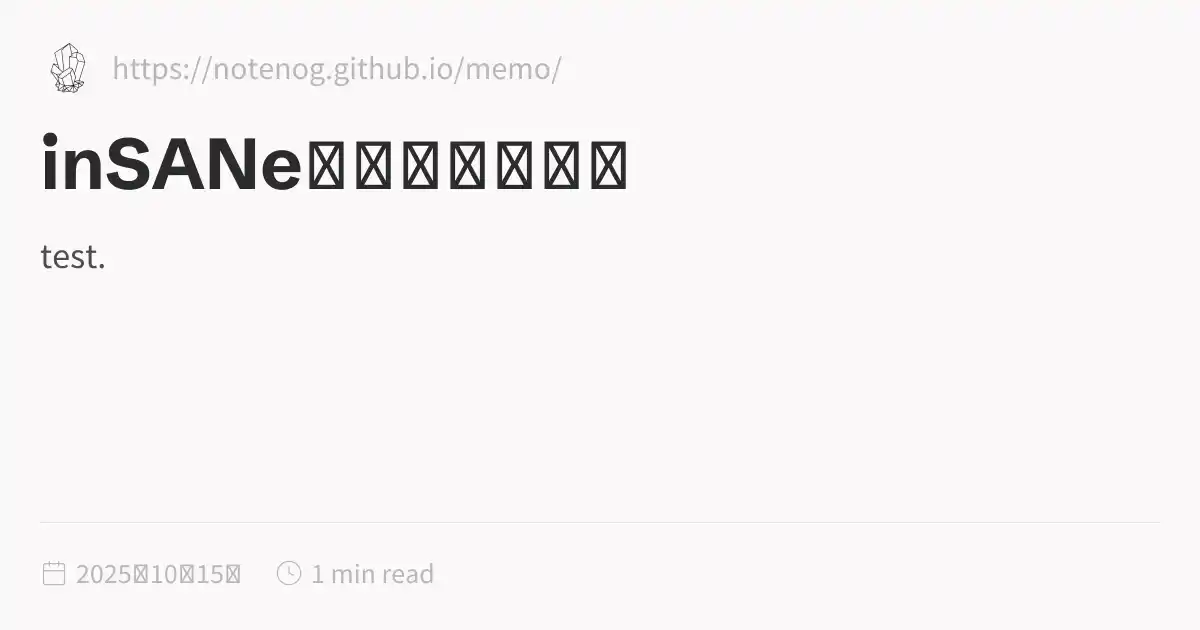
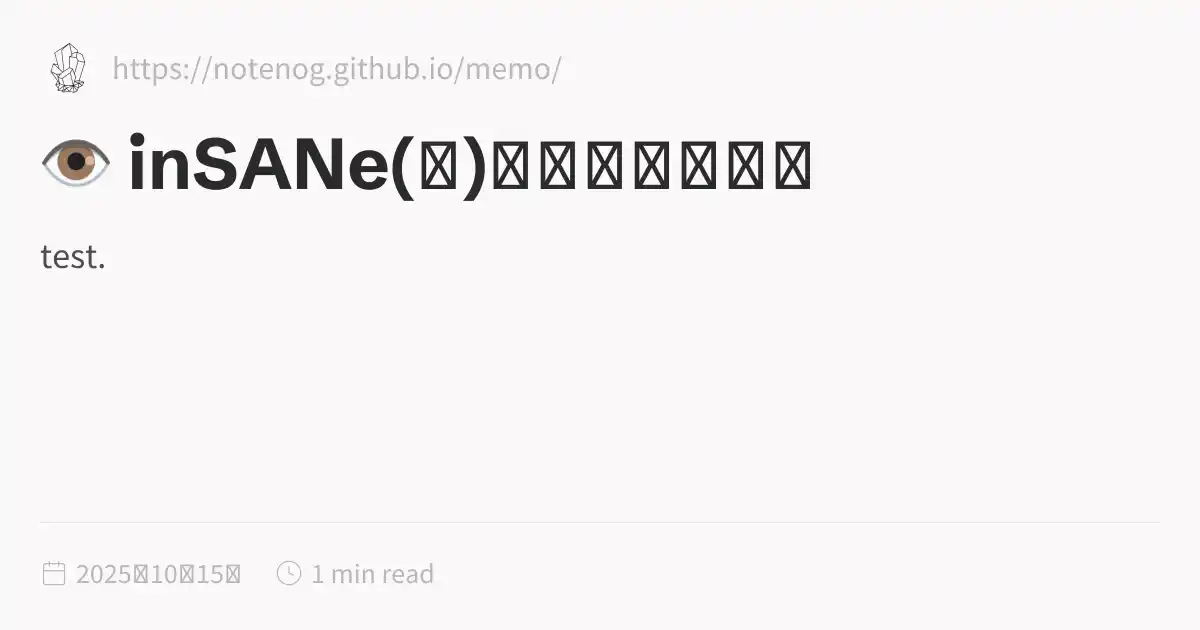
fix: Final push of clean assets with all content emitters disabled

Changed region(s): [[0.0308, 0.2111, 0.6783, 0.3317]]

diff --git a/docs/index.html b/docs/index.html
@@ -1,5 +1,5 @@
 <!DOCTYPE html>
-<html lang="ja" dir="ltr"><head><title>index</title><meta charset="utf-8"/><link rel="preconnect" href="https://fonts.googleapis.com"/><link rel="preconnect" href="https://fonts.gstatic.com"/><link rel="stylesheet" href="https://fonts.googleapis.com/css2?family=Schibsted Grotesk:wght@400;700&amp;family=Source Sans Pro:ital,wght@0,400;0,600;1,400;1,600&amp;family=IBM Plex Mono:wght@400;600&amp;display=swap"/><link rel="preconnect" href="https://cdnjs.cloudflare.com" crossorigin="anonymous"/><meta name="viewport" content="width=device-width, initial-scale=1.0"/><meta name="og:site_name" content="MEMO"/><meta property="og:title" content="index"/><meta property="og:type" content="website"/><meta name="twitter:card" content="summary_large_image"/><meta name="twitter:title" content="index"/><meta name="twitter:description" content="セッション前について 【🔧 使用ツール】 Tekey()を使用します 【立ち絵について】 用意される場合は、縦450pxを基準に、**「股下～膝上」**程度にカットを推奨します 横幅は自由です セッション当日について 【💁♀ 立ち絵位置】 特に指定がなければ 【🎨 文字色】 通常、GMは赤・灰・黒系を使用します それ以外の色でお願い致します 【📸 スクリーンショットの公開】 ネタバレの配慮をして頂ければX(Twitter)等にあげて貰って大丈夫です 厳密には「NPC」「マップ」「エネミー」等は映さないように重々注意して下さい ."/><meta property="og:description" content="セッション前について 【🔧 使用ツール】 Tekey()を使用します 【立ち絵について】 用意される場合は、縦450pxを基準に、**「股下～膝上」**程度にカットを推奨します 横幅は自由です セッション当日について 【💁♀ 立ち絵位置】 特に指定がなければ 【🎨 文字色】 通常、GMは赤・灰・黒系を使用します それ以外の色でお願い致します 【📸 スクリーンショットの公開】 ネタバレの配慮をして頂ければX(Twitter)等にあげて貰って大丈夫です 厳密には「NPC」「マップ」「エネミー」等は映さないように重々注意して下さい ."/><meta property="og:image:alt" content="セッション前について 【🔧 使用ツール】 Tekey()を使用します 【立ち絵について】 用意される場合は、縦450pxを基準に、**「股下～膝上」**程度にカットを推奨します 横幅は自由です セッション当日について 【💁♀ 立ち絵位置】 特に指定がなければ 【🎨 文字色】 通常、GMは赤・灰・黒系を使用します それ以外の色でお願い致します 【📸 スクリーンショットの公開】 ネタバレの配慮をして頂ければX(Twitter)等にあげて貰って大丈夫です 厳密には「NPC」「マップ」「エネミー」等は映さないように重々注意して下さい ."/><meta property="twitter:domain" content="https://notenog.github.io/memo/"/><meta property="og:url" content="https://https//notenog.github.io/memo/index"/><meta property="twitter:url" content="https://https//notenog.github.io/memo/index"/><link rel="icon" href="./static/icon.png"/><meta name="description" content="セッション前について 【🔧 使用ツール】 Tekey()を使用します 【立ち絵について】 用意される場合は、縦450pxを基準に、**「股下～膝上」**程度にカットを推奨します 横幅は自由です セッション当日について 【💁♀ 立ち絵位置】 特に指定がなければ 【🎨 文字色】 通常、GMは赤・灰・黒系を使用します それ以外の色でお願い致します 【📸 スクリーンショットの公開】 ネタバレの配慮をして頂ければX(Twitter)等にあげて貰って大丈夫です 厳密には「NPC」「マップ」「エネミー」等は映さないように重々注意して下さい ."/><meta name="generator" content="Quartz"/><link href="./index.css" rel="stylesheet" type="text/css" spa-preserve/><style>.expand-button {
+<html lang="ja" dir="ltr"><head><title>index</title><meta charset="utf-8"/><link rel="preconnect" href="https://fonts.googleapis.com"/><link rel="preconnect" href="https://fonts.gstatic.com"/><link rel="stylesheet" href="https://fonts.googleapis.com/css2?family=Schibsted Grotesk:wght@400;700&amp;family=Source Sans Pro:ital,wght@0,400;0,600;1,400;1,600&amp;family=IBM Plex Mono:wght@400;600&amp;display=swap"/><link rel="preconnect" href="https://cdnjs.cloudflare.com" crossorigin="anonymous"/><meta name="viewport" content="width=device-width, initial-scale=1.0"/><meta name="og:site_name" content="MEMO"/><meta property="og:title" content="index"/><meta property="og:type" content="website"/><meta name="twitter:card" content="summary_large_image"/><meta name="twitter:title" content="index"/><meta name="twitter:description" content="◯ セッション前について 【🔧 使用ツール】 Tekey()を使用します 【立ち絵について】 用意される場合は、縦450pxを基準に、**「股下～膝上」**程度にカットを推奨します 横幅は自由です ◯ セッション当日について 【💁♀ 立ち絵位置】 特に指定がなければ 【🎨 文字色】 通常、GMは赤・灰・黒系を使用します それ以外の色でお願い致します 【📸 スクリーンショットの公開】 ネタバレの配慮をして頂ければX(Twitter)等にあげて貰って大丈夫です 厳密には「NPC」「マップ」「エネミー」等は映さないように重々注意して下さい ."/><meta property="og:description" content="◯ セッション前について 【🔧 使用ツール】 Tekey()を使用します 【立ち絵について】 用意される場合は、縦450pxを基準に、**「股下～膝上」**程度にカットを推奨します 横幅は自由です ◯ セッション当日について 【💁♀ 立ち絵位置】 特に指定がなければ 【🎨 文字色】 通常、GMは赤・灰・黒系を使用します それ以外の色でお願い致します 【📸 スクリーンショットの公開】 ネタバレの配慮をして頂ければX(Twitter)等にあげて貰って大丈夫です 厳密には「NPC」「マップ」「エネミー」等は映さないように重々注意して下さい ."/><meta property="og:image:alt" content="◯ セッション前について 【🔧 使用ツール】 Tekey()を使用します 【立ち絵について】 用意される場合は、縦450pxを基準に、**「股下～膝上」**程度にカットを推奨します 横幅は自由です ◯ セッション当日について 【💁♀ 立ち絵位置】 特に指定がなければ 【🎨 文字色】 通常、GMは赤・灰・黒系を使用します それ以外の色でお願い致します 【📸 スクリーンショットの公開】 ネタバレの配慮をして頂ければX(Twitter)等にあげて貰って大丈夫です 厳密には「NPC」「マップ」「エネミー」等は映さないように重々注意して下さい ."/><meta property="twitter:domain" content="https://notenog.github.io/memo/"/><meta property="og:url" content="https://https//notenog.github.io/memo/index"/><meta property="twitter:url" content="https://https//notenog.github.io/memo/index"/><link rel="icon" href="./static/icon.png"/><meta name="description" content="◯ セッション前について 【🔧 使用ツール】 Tekey()を使用します 【立ち絵について】 用意される場合は、縦450pxを基準に、**「股下～膝上」**程度にカットを推奨します 横幅は自由です ◯ セッション当日について 【💁♀ 立ち絵位置】 特に指定がなければ 【🎨 文字色】 通常、GMは赤・灰・黒系を使用します それ以外の色でお願い致します 【📸 スクリーンショットの公開】 ネタバレの配慮をして頂ければX(Twitter)等にあげて貰って大丈夫です 厳密には「NPC」「マップ」「エネミー」等は映さないように重々注意して下さい ."/><meta name="generator" content="Quartz"/><link href="./index.css" rel="stylesheet" type="text/css" spa-preserve/><style>.expand-button {
   position: absolute;
   display: flex;
   float: right;
@@ -116,7 +116,7 @@ pre:hover > .expand-button {
   padding: 0 12px;
   font-size: 14px;
 }
[2 lines of base64/hex data omitted]
 <h2 id="-使用ツール">【🔧 使用ツール】<a role="anchor" aria-hidden="true" tabindex="-1" data-no-popover="true" href="#-使用ツール" class="internal"><svg width="18" height="18" viewBox="0 0 24 24" fill="none" stroke="currentColor" stroke-width="2" stroke-linecap="round" stroke-linejoin="round"><path d="M10 13a5 5 0 0 0 7.54.54l3-3a5 5 0 0 0-7.07-7.07l-1.72 1.71"></path><path d="M14 11a5 5 0 0 0-7.54-.54l-3 3a5 5 0 0 0 7.07 7.07l1.71-1.71"></path></svg></a></h2>
 <ul>
 <li>Tekey()を使用します</li>
@@ -126,7 +126,7 @@ pre:hover > .expand-button {
 <li>用意される場合は、<strong>縦450px</strong>を基準に、**「股下～膝上」**程度にカットを推奨します</li>
 <li>横幅は自由です</li>
 </ul>
-<h1 id="セッション当日について">セッション当日について<a role="anchor" aria-hidden="true" tabindex="-1" data-no-popover="true" href="#セッション当日について" class="internal"><svg width="18" height="18" viewBox="0 0 24 24" fill="none" stroke="currentColor" stroke-width="2" stroke-linecap="round" stroke-linejoin="round"><path d="M10 13a5 5 0 0 0 7.54.54l3-3a5 5 0 0 0-7.07-7.07l-1.72 1.71"></path><path d="M14 11a5 5 0 0 0-7.54-.54l-3 3a5 5 0 0 0 7.07 7.07l1.71-1.71"></path></svg></a></h1>
+<h1 id="-セッション当日について">◯ セッション当日について<a role="anchor" aria-hidden="true" tabindex="-1" data-no-popover="true" href="#-セッション当日について" class="internal"><svg width="18" height="18" viewBox="0 0 24 24" fill="none" stroke="currentColor" stroke-width="2" stroke-linecap="round" stroke-linejoin="round"><path d="M10 13a5 5 0 0 0 7.54.54l3-3a5 5 0 0 0-7.07-7.07l-1.72 1.71"></path><path d="M14 11a5 5 0 0 0-7.54-.54l-3 3a5 5 0 0 0 7.07 7.07l1.71-1.71"></path></svg></a></h1>
 <h2 id="-立ち絵位置">【💁♀ 立ち絵位置】<a role="anchor" aria-hidden="true" tabindex="-1" data-no-popover="true" href="#-立ち絵位置" class="internal"><svg width="18" height="18" viewBox="0 0 24 24" fill="none" stroke="currentColor" stroke-width="2" stroke-linecap="round" stroke-linejoin="round"><path d="M10 13a5 5 0 0 0 7.54.54l3-3a5 5 0 0 0-7.07-7.07l-1.72 1.71"></path><path d="M14 11a5 5 0 0 0-7.54-.54l-3 3a5 5 0 0 0 7.07 7.07l1.71-1.71"></path></svg></a></h2>
 <ul>
 <li>特に指定がなければ</li>
@@ -140,6 +140,6 @@ pre:hover > .expand-button {
 <ul>
 <li><strong>ネタバレの配慮</strong>をして頂ければX(Twitter)等にあげて貰って大丈夫です</li>
 <li>厳密には「NPC」「マップ」「エネミー」等は映さないように重々注意して下さい</li>
-</ul></article><hr/><div class="page-footer"></div></div><div class="right sidebar"><div class="search"><button class="search-button"><svg role="img" xmlns="http://www.w3.org/2000/svg" viewBox="0 0 19.9 19.7"><title>Search</title><g class="search-path" fill="none"><path stroke-linecap="square" d="M18.5 18.3l-5.4-5.4"></path><circle cx="8" cy="8" r="7"></circle></g></svg><p>Search</p></button><div class="search-container"><div class="search-space"><input autocomplete="off" class="search-bar" name="search" type="text" aria-label="検索ワードを入力" placeholder="検索ワードを入力"/><div class="search-layout" data-preview="true"></div></div></div></div><div class="toc desktop-only"><button type="button" class="toc-header" aria-controls="toc-0" aria-expanded="true"><h3>📄 Contents</h3><svg xmlns="http://www.w3.org/2000/svg" width="24" height="24" viewBox="0 0 24 24" fill="none" stroke="currentColor" stroke-width="2" stroke-linecap="round" stroke-linejoin="round" class="fold"><polyline points="6 9 12 15 18 9"></polyline></svg></button><ul id="list-1" class="toc-content overflow"><li class="depth-0"><a href="#セッション前について" data-for="セッション前について">セッション前について</a></li><li class="depth-1"><a href="#-使用ツール" data-for="-使用ツール">【🔧 使用ツール】</a></li><li class="depth-1"><a href="#立ち絵について" data-for="立ち絵について">【立ち絵について】</a></li><li class="depth-0"><a href="#セッション当日について" data-for="セッション当日について">セッション当日について</a></li><li class="depth-1"><a href="#-立ち絵位置" data-for="-立ち絵位置">【💁♀ 立ち絵位置】</a></li><li class="depth-1"><a href="#-文字色" data-for="-文字色">【🎨 文字色】</a></li><li class="depth-1"><a href="#-スクリーンショットの公開" data-for="-スクリーンショットの公開">【📸 スクリーンショットの公開】</a></li><li class="overflow-end"></li></ul></div></div><footer class><p>Created with <a href="https://quartz.jzhao.xyz/">Quartz v4.5.2</a> © 2025</p><ul><li><a href="https://github.com/jackyzha0/quartz">GitHub</a></li></ul></footer></div></div></body><script type="application/javascript">function n(){let t=this.parentElement;t.classList.toggle("is-collapsed");let e=t.getElementsByClassName("callout-content")[0];if(!e)return;let l=t.classList.contains("is-collapsed");e.style.gridTemplateRows=l?"0fr":"1fr"}function c(){let t=document.getElementsByClassName("callout is-collapsible");for(let e of t){let l=e.getElementsByClassName("callout-title")[0],s=e.getElementsByClassName("callout-content")[0];if(!l||!s)continue;l.addEventListener("click",n),window.addCleanup(()=>l.removeEventListener("click",n));let o=e.classList.contains("is-collapsed");s.style.gridTemplateRows=o?"0fr":"1fr"}}document.addEventListener("nav",c);
+</ul></article><hr/><div class="page-footer"></div></div><div class="right sidebar"><div class="search"><button class="search-button"><svg role="img" xmlns="http://www.w3.org/2000/svg" viewBox="0 0 19.9 19.7"><title>Search</title><g class="search-path" fill="none"><path stroke-linecap="square" d="M18.5 18.3l-5.4-5.4"></path><circle cx="8" cy="8" r="7"></circle></g></svg><p>Search</p></button><div class="search-container"><div class="search-space"><input autocomplete="off" class="search-bar" name="search" type="text" aria-label="検索ワードを入力" placeholder="検索ワードを入力"/><div class="search-layout" data-preview="true"></div></div></div></div><div class="toc desktop-only"><button type="button" class="toc-header" aria-controls="toc-0" aria-expanded="true"><h3>📄 Contents</h3><svg xmlns="http://www.w3.org/2000/svg" width="24" height="24" viewBox="0 0 24 24" fill="none" stroke="currentColor" stroke-width="2" stroke-linecap="round" stroke-linejoin="round" class="fold"><polyline points="6 9 12 15 18 9"></polyline></svg></button><ul id="list-1" class="toc-content overflow"><li class="depth-0"><a href="#-セッション前について" data-for="-セッション前について">◯ セッション前について</a></li><li class="depth-1"><a href="#-使用ツール" data-for="-使用ツール">【🔧 使用ツール】</a></li><li class="depth-1"><a href="#立ち絵について" data-for="立ち絵について">【立ち絵について】</a></li><li class="depth-0"><a href="#-セッション当日について" data-for="-セッション当日について">◯ セッション当日について</a></li><li class="depth-1"><a href="#-立ち絵位置" data-for="-立ち絵位置">【💁♀ 立ち絵位置】</a></li><li class="depth-1"><a href="#-文字色" data-for="-文字色">【🎨 文字色】</a></li><li class="depth-1"><a href="#-スクリーンショットの公開" data-for="-スクリーンショットの公開">【📸 スクリーンショットの公開】</a></li><li class="overflow-end"></li></ul></div></div><footer class><p>Created with <a href="https://quartz.jzhao.xyz/">Quartz v4.5.2</a> © 2025</p><ul><li><a href="https://github.com/jackyzha0/quartz">GitHub</a></li></ul></footer></div></div></body><script type="application/javascript">function n(){let t=this.parentElement;t.classList.toggle("is-collapsed");let e=t.getElementsByClassName("callout-content")[0];if(!e)return;let l=t.classList.contains("is-collapsed");e.style.gridTemplateRows=l?"0fr":"1fr"}function c(){let t=document.getElementsByClassName("callout is-collapsible");for(let e of t){let l=e.getElementsByClassName("callout-title")[0],s=e.getElementsByClassName("callout-content")[0];if(!l||!s)continue;l.addEventListener("click",n),window.addCleanup(()=>l.removeEventListener("click",n));let o=e.classList.contains("is-collapsed");s.style.gridTemplateRows=o?"0fr":"1fr"}}document.addEventListener("nav",c);
 </script><script type="module">function f(i,e){if(!i)return;function r(o){o.target===this&&(o.preventDefault(),o.stopPropagation(),e())}function t(o){o.key.startsWith("Esc")&&(o.preventDefault(),e())}i?.addEventListener("click",r),window.addCleanup(()=>i?.removeEventListener("click",r)),document.addEventListener("keydown",t),window.addCleanup(()=>document.removeEventListener("keydown",t))}function y(i){for(;i.firstChild;)i.removeChild(i.firstChild)}var h=class{constructor(e,r){this.container=e;this.content=r;this.setupEventListeners(),this.setupNavigationControls(),this.resetTransform()}isDragging=!1;startPan={x:0,y:0};currentPan={x:0,y:0};scale=1;MIN_SCALE=.5;MAX_SCALE=3;cleanups=[];setupEventListeners(){let e=this.onMouseDown.bind(this),r=this.onMouseMove.bind(this),t=this.onMouseUp.bind(this),o=this.resetTransform.bind(this);this.container.addEventListener("mousedown",e),document.addEventListener("mousemove",r),document.addEventListener("mouseup",t),window.addEventListener("resize",o),this.cleanups.push(()=>this.container.removeEventListener("mousedown",e),()=>document.removeEventListener("mousemove",r),()=>document.removeEventListener("mouseup",t),()=>window.removeEventListener("resize",o))}cleanup(){for(let e of this.cleanups)e()}setupNavigationControls(){let e=document.createElement("div");e.className="mermaid-controls";let r=this.createButton("+",()=>this.zoom(.1)),t=this.createButton("-",()=>this.zoom(-.1)),o=this.createButton("Reset",()=>this.resetTransform());e.appendChild(t),e.appendChild(o),e.appendChild(r),this.container.appendChild(e)}createButton(e,r){let t=document.createElement("button");return t.textContent=e,t.className="mermaid-control-button",t.addEventListener("click",r),window.addCleanup(()=>t.removeEventListener("click",r)),t}onMouseDown(e){e.button===0&&(this.isDragging=!0,this.startPan={x:e.clientX-this.currentPan.x,y:e.clientY-this.currentPan.y},this.container.style.cursor="grabbing")}onMouseMove(e){this.isDragging&&(e.preventDefault(),this.currentPan={x:e.clientX-this.startPan.x,y:e.clientY-this.startPan.y},this.updateTransform())}onMouseUp(){this.isDragging=!1,this.container.style.cursor="grab"}zoom(e){let r=Math.min(Math.max(this.scale+e,this.MIN_SCALE),this.MAX_SCALE),t=this.content.getBoundingClientRect(),o=t.width/2,n=t.height/2,c=r-this.scale;this.currentPan.x-=o*c,this.currentPan.y-=n*c,this.scale=r,this.updateTransform()}updateTransform(){this.content.style.transform=`translate(${this.currentPan.x}px, ${this.currentPan.y}px) scale(${this.scale})`}resetTransform(){this.scale=1;let e=this.content.querySelector("svg");this.currentPan={x:e.getBoundingClientRect().width/2,y:e.getBoundingClientRect().height/2},this.updateTransform()}},C=["--secondary","--tertiary","--gray","--light","--lightgray","--highlight","--dark","--darkgray","--codeFont"],E;document.addEventListener("nav",async()=>{let e=document.querySelector(".center").querySelectorAll("code.mermaid");if(e.length===0)return;E||=await import("https://cdnjs.cloudflare.com/ajax/libs/mermaid/11.4.0/mermaid.esm.min.mjs");let r=E.default,t=new WeakMap;for(let n of e)t.set(n,n.innerText);async function o(){for(let s of e){s.removeAttribute("data-processed");let a=t.get(s);a&&(s.innerHTML=a)}let n=C.reduce((s,a)=>(s[a]=window.getComputedStyle(document.documentElement).getPropertyValue(a),s),{}),c=document.documentElement.getAttribute("saved-theme")==="dark";r.initialize({startOnLoad:!1,securityLevel:"loose",theme:c?"dark":"base",themeVariables:{fontFamily:n["--codeFont"],primaryColor:n["--light"],primaryTextColor:n["--darkgray"],primaryBorderColor:n["--tertiary"],lineColor:n["--darkgray"],secondaryColor:n["--secondary"],tertiaryColor:n["--tertiary"],clusterBkg:n["--light"],edgeLabelBackground:n["--highlight"]}}),await r.run({nodes:e})}await o(),document.addEventListener("themechange",o),window.addCleanup(()=>document.removeEventListener("themechange",o));for(let n=0;n<e.length;n++){let v=function(){let g=l.querySelector("#mermaid-space"),m=l.querySelector(".mermaid-content");if(!m)return;y(m);let w=c.querySelector("svg").cloneNode(!0);m.appendChild(w),l.classList.add("active"),g.style.cursor="grab",u=new h(g,m)},M=function(){l.classList.remove("active"),u?.cleanup(),u=null},c=e[n],s=c.parentElement,a=s.querySelector(".clipboard-button"),d=s.querySelector(".expand-button"),p=window.getComputedStyle(a),L=a.offsetWidth+parseFloat(p.marginLeft||"0")+parseFloat(p.marginRight||"0");d.style.right=`calc(${L}px + 0.3rem)`,s.prepend(d);let l=s.querySelector("#mermaid-container");if(!l)return;let u=null;d.addEventListener("click",v),f(l,M),window.addCleanup(()=>{u?.cleanup(),d.removeEventListener("click",v)})}});
 </script><script src="https://cdn.jsdelivr.net/npm/katex@0.16.11/dist/contrib/copy-tex.min.js" type="application/javascript"></script><script src="./postscript.js" type="module"></script></html>

diff --git a/docs/inSANe_new.html b/docs/inSANe_new.html
@@ -1,5 +1,5 @@
 <!DOCTYPE html>
-<html lang="ja" dir="ltr"><head><title>inSANe／ハウスルール</title><meta charset="utf-8"/><link rel="preconnect" href="https://fonts.googleapis.com"/><link rel="preconnect" href="https://fonts.gstatic.com"/><link rel="stylesheet" href="https://fonts.googleapis.com/css2?family=Schibsted Grotesk:wght@400;700&amp;family=Source Sans Pro:ital,wght@0,400;0,600;1,400;1,600&amp;family=IBM Plex Mono:wght@400;600&amp;display=swap"/><link rel="preconnect" href="https://cdnjs.cloudflare.com" crossorigin="anonymous"/><meta name="viewport" content="width=device-width, initial-scale=1.0"/><meta name="og:site_name" content="MEMO"/><meta property="og:title" content="inSANe／ハウスルール"/><meta property="og:type" content="website"/><meta name="twitter:card" content="summary_large_image"/><meta name="twitter:title" content="inSANe／ハウスルール"/><meta name="twitter:description" content="test."/><meta property="og:description" content="test."/><meta property="og:image:alt" content="test."/><meta property="twitter:domain" content="https://notenog.github.io/memo/"/><meta property="og:url" content="https://https//notenog.github.io/memo/inSANe_new"/><meta property="twitter:url" content="https://https//notenog.github.io/memo/inSANe_new"/><link rel="icon" href="./static/icon.png"/><meta name="description" content="test."/><meta name="generator" content="Quartz"/><link href="./index.css" rel="stylesheet" type="text/css" spa-preserve/><style>.expand-button {
+<html lang="ja" dir="ltr"><head><title>👁 inSANe(新)／ハウスルール</title><meta charset="utf-8"/><link rel="preconnect" href="https://fonts.googleapis.com"/><link rel="preconnect" href="https://fonts.gstatic.com"/><link rel="stylesheet" href="https://fonts.googleapis.com/css2?family=Schibsted Grotesk:wght@400;700&amp;family=Source Sans Pro:ital,wght@0,400;0,600;1,400;1,600&amp;family=IBM Plex Mono:wght@400;600&amp;display=swap"/><link rel="preconnect" href="https://cdnjs.cloudflare.com" crossorigin="anonymous"/><meta name="viewport" content="width=device-width, initial-scale=1.0"/><meta name="og:site_name" content="MEMO"/><meta property="og:title" content="👁 inSANe(新)／ハウスルール"/><meta property="og:type" content="website"/><meta name="twitter:card" content="summary_large_image"/><meta name="twitter:title" content="👁 inSANe(新)／ハウスルール"/><meta name="twitter:description" content="test."/><meta property="og:description" content="test."/><meta property="og:image:alt" content="test."/><meta property="twitter:domain" content="https://notenog.github.io/memo/"/><meta property="og:url" content="https://https//notenog.github.io/memo/inSANe_new"/><meta property="twitter:url" content="https://https//notenog.github.io/memo/inSANe_new"/><link rel="icon" href="./static/icon.png"/><meta name="description" content="test."/><meta name="generator" content="Quartz"/><link href="./index.css" rel="stylesheet" type="text/css" spa-preserve/><style>.expand-button {
   position: absolute;
   display: flex;
   float: right;
@@ -116,6 +116,6 @@ pre:hover > .expand-button {
   padding: 0 12px;
   font-size: 14px;
 }
[2 lines of base64/hex data omitted]
 </script><script type="module">function f(i,e){if(!i)return;function r(o){o.target===this&&(o.preventDefault(),o.stopPropagation(),e())}function t(o){o.key.startsWith("Esc")&&(o.preventDefault(),e())}i?.addEventListener("click",r),window.addCleanup(()=>i?.removeEventListener("click",r)),document.addEventListener("keydown",t),window.addCleanup(()=>document.removeEventListener("keydown",t))}function y(i){for(;i.firstChild;)i.removeChild(i.firstChild)}var h=class{constructor(e,r){this.container=e;this.content=r;this.setupEventListeners(),this.setupNavigationControls(),this.resetTransform()}isDragging=!1;startPan={x:0,y:0};currentPan={x:0,y:0};scale=1;MIN_SCALE=.5;MAX_SCALE=3;cleanups=[];setupEventListeners(){let e=this.onMouseDown.bind(this),r=this.onMouseMove.bind(this),t=this.onMouseUp.bind(this),o=this.resetTransform.bind(this);this.container.addEventListener("mousedown",e),document.addEventListener("mousemove",r),document.addEventListener("mouseup",t),window.addEventListener("resize",o),this.cleanups.push(()=>this.container.removeEventListener("mousedown",e),()=>document.removeEventListener("mousemove",r),()=>document.removeEventListener("mouseup",t),()=>window.removeEventListener("resize",o))}cleanup(){for(let e of this.cleanups)e()}setupNavigationControls(){let e=document.createElement("div");e.className="mermaid-controls";let r=this.createButton("+",()=>this.zoom(.1)),t=this.createButton("-",()=>this.zoom(-.1)),o=this.createButton("Reset",()=>this.resetTransform());e.appendChild(t),e.appendChild(o),e.appendChild(r),this.container.appendChild(e)}createButton(e,r){let t=document.createElement("button");return t.textContent=e,t.className="mermaid-control-button",t.addEventListener("click",r),window.addCleanup(()=>t.removeEventListener("click",r)),t}onMouseDown(e){e.button===0&&(this.isDragging=!0,this.startPan={x:e.clientX-this.currentPan.x,y:e.clientY-this.currentPan.y},this.container.style.cursor="grabbing")}onMouseMove(e){this.isDragging&&(e.preventDefault(),this.currentPan={x:e.clientX-this.startPan.x,y:e.clientY-this.startPan.y},this.updateTransform())}onMouseUp(){this.isDragging=!1,this.container.style.cursor="grab"}zoom(e){let r=Math.min(Math.max(this.scale+e,this.MIN_SCALE),this.MAX_SCALE),t=this.content.getBoundingClientRect(),o=t.width/2,n=t.height/2,c=r-this.scale;this.currentPan.x-=o*c,this.currentPan.y-=n*c,this.scale=r,this.updateTransform()}updateTransform(){this.content.style.transform=`translate(${this.currentPan.x}px, ${this.currentPan.y}px) scale(${this.scale})`}resetTransform(){this.scale=1;let e=this.content.querySelector("svg");this.currentPan={x:e.getBoundingClientRect().width/2,y:e.getBoundingClientRect().height/2},this.updateTransform()}},C=["--secondary","--tertiary","--gray","--light","--lightgray","--highlight","--dark","--darkgray","--codeFont"],E;document.addEventListener("nav",async()=>{let e=document.querySelector(".center").querySelectorAll("code.mermaid");if(e.length===0)return;E||=await import("https://cdnjs.cloudflare.com/ajax/libs/mermaid/11.4.0/mermaid.esm.min.mjs");let r=E.default,t=new WeakMap;for(let n of e)t.set(n,n.innerText);async function o(){for(let s of e){s.removeAttribute("data-processed");let a=t.get(s);a&&(s.innerHTML=a)}let n=C.reduce((s,a)=>(s[a]=window.getComputedStyle(document.documentElement).getPropertyValue(a),s),{}),c=document.documentElement.getAttribute("saved-theme")==="dark";r.initialize({startOnLoad:!1,securityLevel:"loose",theme:c?"dark":"base",themeVariables:{fontFamily:n["--codeFont"],primaryColor:n["--light"],primaryTextColor:n["--darkgray"],primaryBorderColor:n["--tertiary"],lineColor:n["--darkgray"],secondaryColor:n["--secondary"],tertiaryColor:n["--tertiary"],clusterBkg:n["--light"],edgeLabelBackground:n["--highlight"]}}),await r.run({nodes:e})}await o(),document.addEventListener("themechange",o),window.addCleanup(()=>document.removeEventListener("themechange",o));for(let n=0;n<e.length;n++){let v=function(){let g=l.querySelector("#mermaid-space"),m=l.querySelector(".mermaid-content");if(!m)return;y(m);let w=c.querySelector("svg").cloneNode(!0);m.appendChild(w),l.classList.add("active"),g.style.cursor="grab",u=new h(g,m)},M=function(){l.classList.remove("active"),u?.cleanup(),u=null},c=e[n],s=c.parentElement,a=s.querySelector(".clipboard-button"),d=s.querySelector(".expand-button"),p=window.getComputedStyle(a),L=a.offsetWidth+parseFloat(p.marginLeft||"0")+parseFloat(p.marginRight||"0");d.style.right=`calc(${L}px + 0.3rem)`,s.prepend(d);let l=s.querySelector("#mermaid-container");if(!l)return;let u=null;d.addEventListener("click",v),f(l,M),window.addCleanup(()=>{u?.cleanup(),d.removeEventListener("click",v)})}});
 </script><script src="https://cdn.jsdelivr.net/npm/katex@0.16.11/dist/contrib/copy-tex.min.js" type="application/javascript"></script><script src="./postscript.js" type="module"></script></html>

diff --git a/docs/inSANe_old.html b/docs/inSANe_old.html
@@ -1,5 +1,5 @@
 <!DOCTYPE html>
-<html lang="ja" dir="ltr"><head><title>inSANe</title><meta charset="utf-8"/><link rel="preconnect" href="https://fonts.googleapis.com"/><link rel="preconnect" href="https://fonts.gstatic.com"/><link rel="stylesheet" href="https://fonts.googleapis.com/css2?family=Schibsted Grotesk:wght@400;700&amp;family=Source Sans Pro:ital,wght@0,400;0,600;1,400;1,600&amp;family=IBM Plex Mono:wght@400;600&amp;display=swap"/><link rel="preconnect" href="https://cdnjs.cloudflare.com" crossorigin="anonymous"/><meta name="viewport" content="width=device-width, initial-scale=1.0"/><meta name="og:site_name" content="MEMO"/><meta property="og:title" content="inSANe"/><meta property="og:type" content="website"/><meta name="twitter:card" content="summary_large_image"/><meta name="twitter:title" content="inSANe"/><meta name="twitter:description" content="test."/><meta property="og:description" content="test."/><meta property="og:image:alt" content="test."/><meta property="twitter:domain" content="https://notenog.github.io/memo/"/><meta property="og:url" content="https://https//notenog.github.io/memo/inSANe_old"/><meta property="twitter:url" content="https://https//notenog.github.io/memo/inSANe_old"/><link rel="icon" href="./static/icon.png"/><meta name="description" content="test."/><meta name="generator" content="Quartz"/><link href="./index.css" rel="stylesheet" type="text/css" spa-preserve/><style>.expand-button {
+<html lang="ja" dir="ltr"><head><title>👁🗨 inSANe(旧)／ハウスルール</title><meta charset="utf-8"/><link rel="preconnect" href="https://fonts.googleapis.com"/><link rel="preconnect" href="https://fonts.gstatic.com"/><link rel="stylesheet" href="https://fonts.googleapis.com/css2?family=Schibsted Grotesk:wght@400;700&amp;family=Source Sans Pro:ital,wght@0,400;0,600;1,400;1,600&amp;family=IBM Plex Mono:wght@400;600&amp;display=swap"/><link rel="preconnect" href="https://cdnjs.cloudflare.com" crossorigin="anonymous"/><meta name="viewport" content="width=device-width, initial-scale=1.0"/><meta name="og:site_name" content="MEMO"/><meta property="og:title" content="👁🗨 inSANe(旧)／ハウスルール"/><meta property="og:type" content="website"/><meta name="twitter:card" content="summary_large_image"/><meta name="twitter:title" content="👁🗨 inSANe(旧)／ハウスルール"/><meta name="twitter:description" content="test."/><meta property="og:description" content="test."/><meta property="og:image:alt" content="test."/><meta property="twitter:domain" content="https://notenog.github.io/memo/"/><meta property="og:url" content="https://https//notenog.github.io/memo/inSANe_old"/><meta property="twitter:url" content="https://https//notenog.github.io/memo/inSANe_old"/><link rel="icon" href="./static/icon.png"/><meta name="description" content="test."/><meta name="generator" content="Quartz"/><link href="./index.css" rel="stylesheet" type="text/css" spa-preserve/><style>.expand-button {
   position: absolute;
   display: flex;
   float: right;
@@ -116,6 +116,6 @@ pre:hover > .expand-button {
   padding: 0 12px;
   font-size: 14px;
 }
[2 lines of base64/hex data omitted]
 </script><script type="module">function f(i,e){if(!i)return;function r(o){o.target===this&&(o.preventDefault(),o.stopPropagation(),e())}function t(o){o.key.startsWith("Esc")&&(o.preventDefault(),e())}i?.addEventListener("click",r),window.addCleanup(()=>i?.removeEventListener("click",r)),document.addEventListener("keydown",t),window.addCleanup(()=>document.removeEventListener("keydown",t))}function y(i){for(;i.firstChild;)i.removeChild(i.firstChild)}var h=class{constructor(e,r){this.container=e;this.content=r;this.setupEventListeners(),this.setupNavigationControls(),this.resetTransform()}isDragging=!1;startPan={x:0,y:0};currentPan={x:0,y:0};scale=1;MIN_SCALE=.5;MAX_SCALE=3;cleanups=[];setupEventListeners(){let e=this.onMouseDown.bind(this),r=this.onMouseMove.bind(this),t=this.onMouseUp.bind(this),o=this.resetTransform.bind(this);this.container.addEventListener("mousedown",e),document.addEventListener("mousemove",r),document.addEventListener("mouseup",t),window.addEventListener("resize",o),this.cleanups.push(()=>this.container.removeEventListener("mousedown",e),()=>document.removeEventListener("mousemove",r),()=>document.removeEventListener("mouseup",t),()=>window.removeEventListener("resize",o))}cleanup(){for(let e of this.cleanups)e()}setupNavigationControls(){let e=document.createElement("div");e.className="mermaid-controls";let r=this.createButton("+",()=>this.zoom(.1)),t=this.createButton("-",()=>this.zoom(-.1)),o=this.createButton("Reset",()=>this.resetTransform());e.appendChild(t),e.appendChild(o),e.appendChild(r),this.container.appendChild(e)}createButton(e,r){let t=document.createElement("button");return t.textContent=e,t.className="mermaid-control-button",t.addEventListener("click",r),window.addCleanup(()=>t.removeEventListener("click",r)),t}onMouseDown(e){e.button===0&&(this.isDragging=!0,this.startPan={x:e.clientX-this.currentPan.x,y:e.clientY-this.currentPan.y},this.container.style.cursor="grabbing")}onMouseMove(e){this.isDragging&&(e.preventDefault(),this.currentPan={x:e.clientX-this.startPan.x,y:e.clientY-this.startPan.y},this.updateTransform())}onMouseUp(){this.isDragging=!1,this.container.style.cursor="grab"}zoom(e){let r=Math.min(Math.max(this.scale+e,this.MIN_SCALE),this.MAX_SCALE),t=this.content.getBoundingClientRect(),o=t.width/2,n=t.height/2,c=r-this.scale;this.currentPan.x-=o*c,this.currentPan.y-=n*c,this.scale=r,this.updateTransform()}updateTransform(){this.content.style.transform=`translate(${this.currentPan.x}px, ${this.currentPan.y}px) scale(${this.scale})`}resetTransform(){this.scale=1;let e=this.content.querySelector("svg");this.currentPan={x:e.getBoundingClientRect().width/2,y:e.getBoundingClientRect().height/2},this.updateTransform()}},C=["--secondary","--tertiary","--gray","--light","--lightgray","--highlight","--dark","--darkgray","--codeFont"],E;document.addEventListener("nav",async()=>{let e=document.querySelector(".center").querySelectorAll("code.mermaid");if(e.length===0)return;E||=await import("https://cdnjs.cloudflare.com/ajax/libs/mermaid/11.4.0/mermaid.esm.min.mjs");let r=E.default,t=new WeakMap;for(let n of e)t.set(n,n.innerText);async function o(){for(let s of e){s.removeAttribute("data-processed");let a=t.get(s);a&&(s.innerHTML=a)}let n=C.reduce((s,a)=>(s[a]=window.getComputedStyle(document.documentElement).getPropertyValue(a),s),{}),c=document.documentElement.getAttribute("saved-theme")==="dark";r.initialize({startOnLoad:!1,securityLevel:"loose",theme:c?"dark":"base",themeVariables:{fontFamily:n["--codeFont"],primaryColor:n["--light"],primaryTextColor:n["--darkgray"],primaryBorderColor:n["--tertiary"],lineColor:n["--darkgray"],secondaryColor:n["--secondary"],tertiaryColor:n["--tertiary"],clusterBkg:n["--light"],edgeLabelBackground:n["--highlight"]}}),await r.run({nodes:e})}await o(),document.addEventListener("themechange",o),window.addCleanup(()=>document.removeEventListener("themechange",o));for(let n=0;n<e.length;n++){let v=function(){let g=l.querySelector("#mermaid-space"),m=l.querySelector(".mermaid-content");if(!m)return;y(m);let w=c.querySelector("svg").cloneNode(!0);m.appendChild(w),l.classList.add("active"),g.style.cursor="grab",u=new h(g,m)},M=function(){l.classList.remove("active"),u?.cleanup(),u=null},c=e[n],s=c.parentElement,a=s.querySelector(".clipboard-button"),d=s.querySelector(".expand-button"),p=window.getComputedStyle(a),L=a.offsetWidth+parseFloat(p.marginLeft||"0")+parseFloat(p.marginRight||"0");d.style.right=`calc(${L}px + 0.3rem)`,s.prepend(d);let l=s.querySelector("#mermaid-container");if(!l)return;let u=null;d.addEventListener("click",v),f(l,M),window.addCleanup(()=>{u?.cleanup(),d.removeEventListener("click",v)})}});
 </script><script src="https://cdn.jsdelivr.net/npm/katex@0.16.11/dist/contrib/copy-tex.min.js" type="application/javascript"></script><script src="./postscript.js" type="module"></script></html>

diff --git a/docs/CoC.html b/docs/CoC.html
@@ -1,5 +1,5 @@
 <!DOCTYPE html>
-<html lang="ja" dir="ltr"><head><title>CoC</title><meta charset="utf-8"/><link rel="preconnect" href="https://fonts.googleapis.com"/><link rel="preconnect" href="https://fonts.gstatic.com"/><link rel="stylesheet" href="https://fonts.googleapis.com/css2?family=Schibsted Grotesk:wght@400;700&amp;family=Source Sans Pro:ital,wght@0,400;0,600;1,400;1,600&amp;family=IBM Plex Mono:wght@400;600&amp;display=swap"/><link rel="preconnect" href="https://cdnjs.cloudflare.com" crossorigin="anonymous"/><meta name="viewport" content="width=device-width, initial-scale=1.0"/><meta name="og:site_name" content="MEMO"/><meta property="og:title" content="CoC"/><meta property="og:type" content="website"/><meta name="twitter:card" content="summary_large_image"/><meta name="twitter:title" content="CoC"/><meta name="twitter:description" content="test."/><meta property="og:description" content="test."/><meta property="og:image:alt" content="test."/><meta property="twitter:domain" content="https://notenog.github.io/memo/"/><meta property="og:url" content="https://https//notenog.github.io/memo/CoC"/><meta property="twitter:url" content="https://https//notenog.github.io/memo/CoC"/><link rel="icon" href="./static/icon.png"/><meta name="description" content="test."/><meta name="generator" content="Quartz"/><link href="./index.css" rel="stylesheet" type="text/css" spa-preserve/><style>.expand-button {
+<html lang="ja" dir="ltr"><head><title>📕 CoC／ハウスルール</title><meta charset="utf-8"/><link rel="preconnect" href="https://fonts.googleapis.com"/><link rel="preconnect" href="https://fonts.gstatic.com"/><link rel="stylesheet" href="https://fonts.googleapis.com/css2?family=Schibsted Grotesk:wght@400;700&amp;family=Source Sans Pro:ital,wght@0,400;0,600;1,400;1,600&amp;family=IBM Plex Mono:wght@400;600&amp;display=swap"/><link rel="preconnect" href="https://cdnjs.cloudflare.com" crossorigin="anonymous"/><meta name="viewport" content="width=device-width, initial-scale=1.0"/><meta name="og:site_name" content="MEMO"/><meta property="og:title" content="📕 CoC／ハウスルール"/><meta property="og:type" content="website"/><meta name="twitter:card" content="summary_large_image"/><meta name="twitter:title" content="📕 CoC／ハウスルール"/><meta name="twitter:description" content="test."/><meta property="og:description" content="test."/><meta property="og:image:alt" content="test."/><meta property="twitter:domain" content="https://notenog.github.io/memo/"/><meta property="og:url" content="https://https//notenog.github.io/memo/CoC"/><meta property="twitter:url" content="https://https//notenog.github.io/memo/CoC"/><link rel="icon" href="./static/icon.png"/><meta name="description" content="test."/><meta name="generator" content="Quartz"/><link href="./index.css" rel="stylesheet" type="text/css" spa-preserve/><style>.expand-button {
   position: absolute;
   display: flex;
   float: right;
@@ -116,6 +116,6 @@ pre:hover > .expand-button {
   padding: 0 12px;
   font-size: 14px;
 }
[2 lines of base64/hex data omitted]
 </script><script type="module">function f(i,e){if(!i)return;function r(o){o.target===this&&(o.preventDefault(),o.stopPropagation(),e())}function t(o){o.key.startsWith("Esc")&&(o.preventDefault(),e())}i?.addEventListener("click",r),window.addCleanup(()=>i?.removeEventListener("click",r)),document.addEventListener("keydown",t),window.addCleanup(()=>document.removeEventListener("keydown",t))}function y(i){for(;i.firstChild;)i.removeChild(i.firstChild)}var h=class{constructor(e,r){this.container=e;this.content=r;this.setupEventListeners(),this.setupNavigationControls(),this.resetTransform()}isDragging=!1;startPan={x:0,y:0};currentPan={x:0,y:0};scale=1;MIN_SCALE=.5;MAX_SCALE=3;cleanups=[];setupEventListeners(){let e=this.onMouseDown.bind(this),r=this.onMouseMove.bind(this),t=this.onMouseUp.bind(this),o=this.resetTransform.bind(this);this.container.addEventListener("mousedown",e),document.addEventListener("mousemove",r),document.addEventListener("mouseup",t),window.addEventListener("resize",o),this.cleanups.push(()=>this.container.removeEventListener("mousedown",e),()=>document.removeEventListener("mousemove",r),()=>document.removeEventListener("mouseup",t),()=>window.removeEventListener("resize",o))}cleanup(){for(let e of this.cleanups)e()}setupNavigationControls(){let e=document.createElement("div");e.className="mermaid-controls";let r=this.createButton("+",()=>this.zoom(.1)),t=this.createButton("-",()=>this.zoom(-.1)),o=this.createButton("Reset",()=>this.resetTransform());e.appendChild(t),e.appendChild(o),e.appendChild(r),this.container.appendChild(e)}createButton(e,r){let t=document.createElement("button");return t.textContent=e,t.className="mermaid-control-button",t.addEventListener("click",r),window.addCleanup(()=>t.removeEventListener("click",r)),t}onMouseDown(e){e.button===0&&(this.isDragging=!0,this.startPan={x:e.clientX-this.currentPan.x,y:e.clientY-this.currentPan.y},this.container.style.cursor="grabbing")}onMouseMove(e){this.isDragging&&(e.preventDefault(),this.currentPan={x:e.clientX-this.startPan.x,y:e.clientY-this.startPan.y},this.updateTransform())}onMouseUp(){this.isDragging=!1,this.container.style.cursor="grab"}zoom(e){let r=Math.min(Math.max(this.scale+e,this.MIN_SCALE),this.MAX_SCALE),t=this.content.getBoundingClientRect(),o=t.width/2,n=t.height/2,c=r-this.scale;this.currentPan.x-=o*c,this.currentPan.y-=n*c,this.scale=r,this.updateTransform()}updateTransform(){this.content.style.transform=`translate(${this.currentPan.x}px, ${this.currentPan.y}px) scale(${this.scale})`}resetTransform(){this.scale=1;let e=this.content.querySelector("svg");this.currentPan={x:e.getBoundingClientRect().width/2,y:e.getBoundingClientRect().height/2},this.updateTransform()}},C=["--secondary","--tertiary","--gray","--light","--lightgray","--highlight","--dark","--darkgray","--codeFont"],E;document.addEventListener("nav",async()=>{let e=document.querySelector(".center").querySelectorAll("code.mermaid");if(e.length===0)return;E||=await import("https://cdnjs.cloudflare.com/ajax/libs/mermaid/11.4.0/mermaid.esm.min.mjs");let r=E.default,t=new WeakMap;for(let n of e)t.set(n,n.innerText);async function o(){for(let s of e){s.removeAttribute("data-processed");let a=t.get(s);a&&(s.innerHTML=a)}let n=C.reduce((s,a)=>(s[a]=window.getComputedStyle(document.documentElement).getPropertyValue(a),s),{}),c=document.documentElement.getAttribute("saved-theme")==="dark";r.initialize({startOnLoad:!1,securityLevel:"loose",theme:c?"dark":"base",themeVariables:{fontFamily:n["--codeFont"],primaryColor:n["--light"],primaryTextColor:n["--darkgray"],primaryBorderColor:n["--tertiary"],lineColor:n["--darkgray"],secondaryColor:n["--secondary"],tertiaryColor:n["--tertiary"],clusterBkg:n["--light"],edgeLabelBackground:n["--highlight"]}}),await r.run({nodes:e})}await o(),document.addEventListener("themechange",o),window.addCleanup(()=>document.removeEventListener("themechange",o));for(let n=0;n<e.length;n++){let v=function(){let g=l.querySelector("#mermaid-space"),m=l.querySelector(".mermaid-content");if(!m)return;y(m);let w=c.querySelector("svg").cloneNode(!0);m.appendChild(w),l.classList.add("active"),g.style.cursor="grab",u=new h(g,m)},M=function(){l.classList.remove("active"),u?.cleanup(),u=null},c=e[n],s=c.parentElement,a=s.querySelector(".clipboard-button"),d=s.querySelector(".expand-button"),p=window.getComputedStyle(a),L=a.offsetWidth+parseFloat(p.marginLeft||"0")+parseFloat(p.marginRight||"0");d.style.right=`calc(${L}px + 0.3rem)`,s.prepend(d);let l=s.querySelector("#mermaid-container");if(!l)return;let u=null;d.addEventListener("click",v),f(l,M),window.addCleanup(()=>{u?.cleanup(),d.removeEventListener("click",v)})}});
 </script><script src="https://cdn.jsdelivr.net/npm/katex@0.16.11/dist/contrib/copy-tex.min.js" type="application/javascript"></script><script src="./postscript.js" type="module"></script></html>

diff --git a/content/index.md b/content/index.md
@@ -3,7 +3,7 @@ title: "index"
 draft: false
 ---
 
-# セッション前について
+# ◯ セッション前について
 ## 【🔧 使用ツール】
 * Tekey()を使用します
 
@@ -17,7 +17,7 @@ draft: false
 
 
 
-# セッション当日について
+# ◯ セッション当日について
 ## 【💁♀ 立ち絵位置】
 
 * 特に指定がなければ

diff --git a/memo.md b/memo.md
@@ -1,0 +1,9 @@
+
+
+```
+npm run build
+
+git add .
+git commit -m "fix: Final push of clean assets with all content emitters disabled"
+git push origin master
+```

diff --git a/content/inSANe_new.md b/content/inSANe_new.md
@@ -1,5 +1,5 @@
 ---
-title: "inSANe／ハウスルール"
+title: "👁 inSANe(新)／ハウスルール"
 draft: false
 ---
 

diff --git a/content/inSANe_old.md b/content/inSANe_old.md
@@ -1,5 +1,5 @@
 ---
-title: inSANe
+title: "👁🗨 inSANe(旧)／ハウスルール"
 draft: false
 ---
 

diff --git a/content/CoC.md b/content/CoC.md
@@ -1,5 +1,5 @@
 ---
-title: CoC
+title: "📕 CoC／ハウスルール"
 draft: false
 ---
 test
